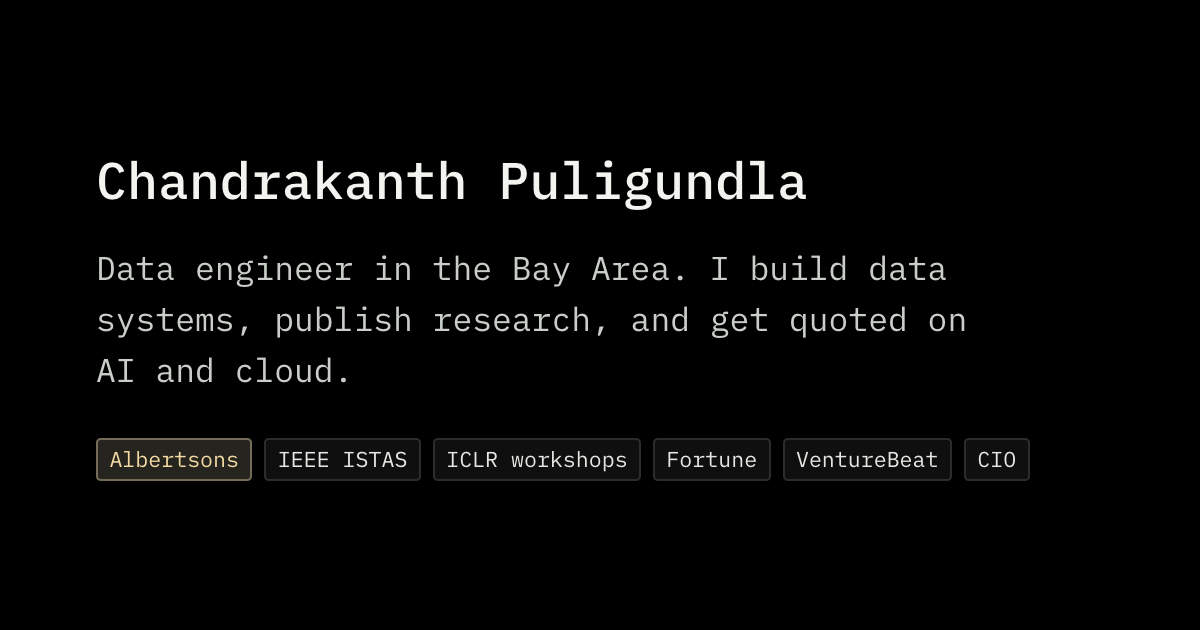
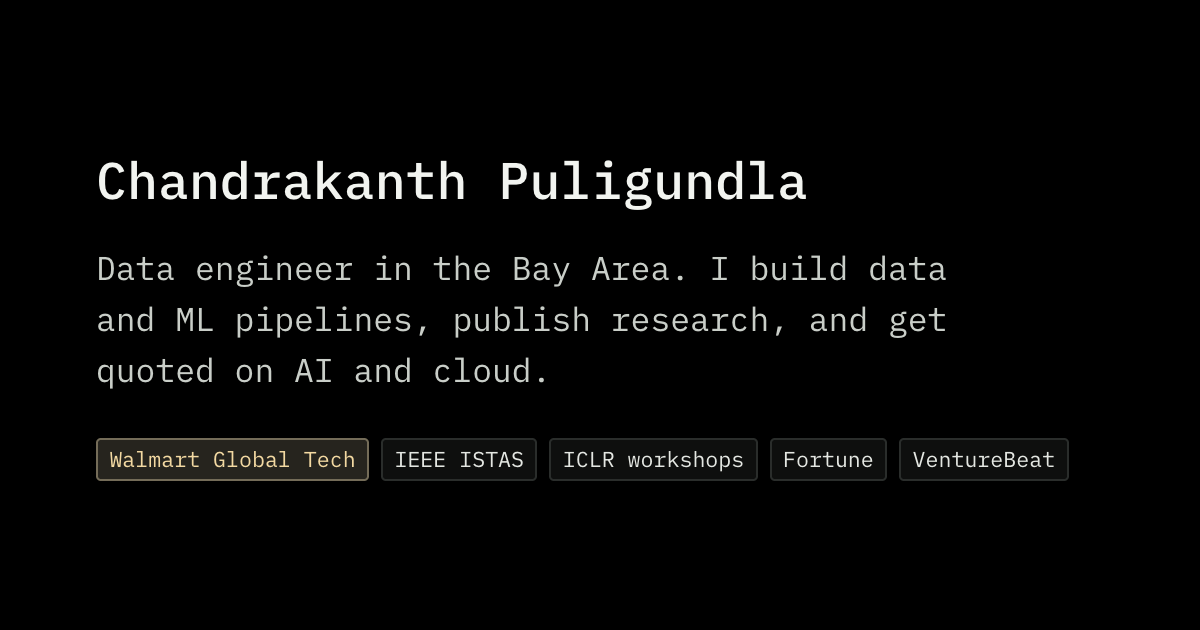
Update the work experience from the FY26 resume
Add Walmart Global Tech as the current role, bring Albertsons, Amazon
and Vodafone in line with the resume, drop LMKInfotech and the Contract
tag, match the resume's skills, and point the home intro, share card
and page descriptions at Walmart Global Tech.

diff --git a/src/content/work.js b/src/content/work.js
@@ -4,31 +4,63 @@ import { logos } from './logos.js';
 // and { name, logo } for a tool with its logo.
 const python = { name: 'Python', logo: logos.python };
 const java = { name: 'Java', logo: logos.java };
+const snowflake = { name: 'Snowflake', logo: logos.snowflake };
+const bigquery = { name: 'BigQuery', logo: logos.bigquery };
+const airflow = { name: 'Apache Airflow', logo: logos.airflow };
 
 export const roles = [
+  {
+    id: 'walmart',
+    chip: 'Walmart Global Tech',
+    logo: logos.walmart,
+    current: true,
+    title: 'Data Engineer – MLOps',
+    date: 'Jul 2026 — Present',
+    company: 'Walmart Global Tech',
+    bullets: [
+      ['Accelerated data processing by orchestrating ', { fig: '5+' }, ' DAGs to use GPUs, cutting compute time by ', { fig: '30%' }, '.'],
+      ['Identified data migration gaps through cross-source analysis of data spanning ', { fig: '85M+' }, ' items.'],
+      ['Partnered with data scientists to deploy and automate pipelines through CI/CD, reducing bottlenecks.']
+    ]
+  },
   {
     id: 'albertsons',
     chip: 'Albertsons',
     logo: logos.albertsons,
-    current: true,
     onHome: true,
     title: 'Data Engineer',
-    date: 'Jan 2024 — Present',
+    date: 'Jan 2024 — Jul 2026',
     company: 'Albertsons',
-    tag: 'Contract',
     bullets: [
-      ['Developed & scaled customer data API, serving ', { fig: '2B' }, ' monthly requests with high availability.'],
-      ['Built ', python, ' data quality tool; catches ', { fig: '86%' }, ' of bugs before business teams, reducing escalations.'],
       [
-        'Launched critical internal migration monitoring tool in ',
+        'Engineered ',
+        { fig: '120+' },
+        ' ETL pipelines on Google Cloud and delivered OKR reports across ',
+        { fig: '12' },
+        ' business divisions, enabling teams to track performance and progress toward business goals.'
+      ],
+      [
+        'Designed an automated data quality framework using SQL validation and ',
+        airflow,
+        ', detecting ',
+        { fig: '86%' },
+        ' of data defects before business-team escalation.'
+      ],
+      [
+        'Engineered and launched a critical internal migration monitoring tool in ',
         python,
         ', supporting ',
         { fig: '100+' },
-        ' engineers during ',
-        { name: 'Snowflake', logo: logos.snowflake },
+        ' engineers during a large-scale data transition from ',
+        snowflake,
         ' to ',
-        { name: 'BigQuery', logo: logos.bigquery },
-        ' transition.'
+        bigquery,
+        '.'
+      ],
+      [
+        'Developed ',
+        { fig: '30+' },
+        ' PySpark data transformation workflows in Databricks, leveraging Spark and distributed processing to support large-volume ETL pipelines, analytics datasets, and reporting needs.'
       ]
     ]
   },
@@ -37,22 +69,15 @@ export const roles = [
     chip: 'Amazon',
     logo: logos.amazon,
     onHome: true,
-    title: 'SDE Intern',
+    title: 'Data Engineer Intern',
     date: 'May 2023 — Aug 2023',
     company: 'Amazon',
     bullets: [
+      ['Collaborated with ', { fig: '4+' }, ' teams to design validation protocols, manage data, and query improvements.'],
+      ['Optimized ', { fig: '10+' }, ' complex SQL queries, reducing average query execution time by ', { fig: '25%' }, '.'],
       [
-        'Designed and implemented scalable APIs using ',
-        java,
-        ', ',
-        { name: 'Spring', logo: logos.spring },
-        ', and Google Guice for ',
-        { fig: '4,000+' },
-        ' datasheets serving millions of requests.'
-      ],
-      ['Optimized API response times by ', { fig: '33%' }, ' through strategic timeout optimization techniques.'],
-      ['Deployed robust timeout feature, reducing unexpected service interruptions by ', { fig: '67%' }, '.'],
-      ['Led legacy system migration, rerouting ', { fig: '8%' }, ' of traffic seamlessly.']
+        'Built and maintained a centralized data dictionary to document table definitions, field-level metadata, business rules, and data ownership, improving data understanding and consistency.'
+      ]
     ]
   },
   {
@@ -60,38 +85,13 @@ export const roles = [
     chip: 'Vodafone',
     logo: logos.vodafone,
     onHome: true,
-    title: 'Software Development Engineer',
-    date: 'Jul 2021 — Nov 2021',
+    title: 'Data Engineer',
+    date: 'Apr 2020 — Dec 2021',
     company: 'Vodafone',
     bullets: [
-      ['Increased user activity by ', { fig: '28%' }, ' through successful overhaul of key patient engagement mechanisms.'],
-      ['Engineered ', { fig: '11' }, ' RESTful APIs, improving UX and reducing redundant requests by ', { fig: '21%' }, '.'],
-      [
-        'Facilitated CI/CD practices with ',
-        { name: 'Git', logo: logos.git },
-        '/Agile, leading to ',
-        { fig: '14%' },
-        ' increase in code delivery speed.'
-      ]
-    ]
-  },
-  {
-    id: 'lmkinfotech',
-    chip: 'LMKInfotech',
-    logo: logos.lmkinfotech,
-    title: 'SDE Intern',
-    date: 'Apr 2020 — Aug 2020',
-    company: 'LMKInfotech',
-    bullets: [
-      [
-        'Crafted scalable RESTful web APIs in ',
-        java,
-        ' and ',
-        { name: 'Spring Boot', logo: logos.spring },
-        ' for financial management tool.'
-      ],
-      ['Achieved ', { fig: '100%' }, ' test and code coverage, validating ', { fig: '150+' }, ' CRUD operations.'],
-      ['Rectified ', { fig: '5' }, ' crucial bugs, guaranteeing a seamless release with ', { fig: '100%' }, ' on-time record.']
+      ['Collaborated with partners to design and implement solutions for data integration and visualization.'],
+      ['Was part of the on call team for handling the incident tickets, timely resolved, and escalated the tickets.'],
+      ['Built ', { fig: '20+' }, ' pipelines, implemented job scheduling, using ', airflow, ', to streamline data processes.']
     ]
   }
 ];
@@ -111,7 +111,11 @@ export const education = [
 ];
 
 export const skills = [
-  { group: 'Languages', items: [python, java, 'SQL'] },
-  { group: 'Data Platforms', items: [{ name: 'Google BigQuery', logo: logos.bigquery }, { name: 'Snowflake', logo: logos.snowflake }] },
-  { group: 'Tools', items: [{ name: 'Git', logo: logos.git }, 'CI/CD'] }
+  { group: 'Languages', items: [java, python, 'SQL', 'Spark', 'PySpark'] },
+  { group: 'Databases', items: ['Oracle DB', 'MySQL', 'PostgreSQL', 'DBMS'] },
+  { group: 'Data Engineering', items: [snowflake, bigquery, 'Google Cloud', 'Databricks'] },
+  { group: 'Scheduling Tools', items: [airflow, 'Google Cloud Composer'] },
+  { group: 'Reporting', items: ['Power BI', 'Looker', 'ThoughtSpot'] },
+  { group: 'Gen AI & ML', items: ['RAG', 'MCP', 'Prompt Engineering', 'Semantic Modeling', 'LookML'] },
+  { group: 'Data Modelling', items: ['Medallion Architecture', 'Star Schema', 'Slowly Changing Dimensions', 'Batch Processing'] }
 ];

diff --git a/index.html b/index.html
@@ -4,26 +4,26 @@
     <meta charset="UTF-8" />
     <meta name="viewport" content="width=device-width, initial-scale=1.0" />
     <title>Chandrakanth Puligundla — Data engineer</title>
-    <meta name="description" content="Data engineer in the Bay Area. I build data systems, publish research, and get quoted on AI and cloud." />
+    <meta name="description" content="Data engineer in the Bay Area. I build data and ML pipelines, publish research, and get quoted on AI and cloud." />
     <meta name="author" content="Chandrakanth Puligundla" />
     <link rel="canonical" href="https://portfolio.chandrakanthpuligundla.workers.dev/" />
 
     <!-- Open Graph -->
     <meta property="og:type" content="website" />
     <meta property="og:title" content="Chandrakanth Puligundla — Data engineer" />
-    <meta property="og:description" content="Data engineer in the Bay Area. I build data systems, publish research, and get quoted on AI and cloud." />
+    <meta property="og:description" content="Data engineer in the Bay Area. I build data and ML pipelines, publish research, and get quoted on AI and cloud." />
     <meta property="og:url" content="https://portfolio.chandrakanthpuligundla.workers.dev/" />
     <meta property="og:image" content="https://portfolio.chandrakanthpuligundla.workers.dev/og.png" />
     <meta property="og:image:width" content="1200" />
     <meta property="og:image:height" content="630" />
-    <meta property="og:image:alt" content="Chandrakanth Puligundla, data engineer in the Bay Area, above six labels: Albertsons, IEEE ISTAS, ICLR workshops, Fortune, VentureBeat and CIO." />
+    <meta property="og:image:alt" content="Chandrakanth Puligundla, data engineer in the Bay Area, above five labels: Walmart Global Tech, IEEE ISTAS, ICLR workshops, Fortune and VentureBeat." />
     <meta property="og:site_name" content="Chandrakanth Puligundla" />
     <meta property="og:locale" content="en_US" />
 
     <!-- Twitter Card -->
     <meta name="twitter:card" content="summary_large_image" />
     <meta name="twitter:title" content="Chandrakanth Puligundla — Data engineer" />
-    <meta name="twitter:description" content="Data engineer in the Bay Area. I build data systems, publish research, and get quoted on AI and cloud." />
+    <meta name="twitter:description" content="Data engineer in the Bay Area. I build data and ML pipelines, publish research, and get quoted on AI and cloud." />
     <meta name="twitter:image" content="https://portfolio.chandrakanthpuligundla.workers.dev/og.png" />
 
     <!-- Favicon -->

diff --git a/src/content/logos.js b/src/content/logos.js
@@ -1,34 +1,32 @@
 import acl from '../assets/logos/acl.svg'
+import airflow from '../assets/logos/airflow.svg'
 import albertsons from '../assets/logos/albertsons.png'
 import amazon from '../assets/logos/amazon.png'
 import asu from '../assets/logos/asu.png'
 import bigquery from '../assets/logos/bigquery.svg'
 import cvf from '../assets/logos/cvf.svg'
-import git from '../assets/logos/git.svg'
 import iclr from '../assets/logos/iclr.svg'
 import ieee from '../assets/logos/ieee.svg'
 import java from '../assets/logos/java.svg'
-import lmkinfotech from '../assets/logos/lmkinfotech.png'
 import plos from '../assets/logos/plos.png'
 import python from '../assets/logos/python.png'
 import snowflake from '../assets/logos/snowflake.png'
 import spelll from '../assets/logos/spelll.png'
-import spring from '../assets/logos/spring.svg'
 import vodafone from '../assets/logos/vodafone.svg'
+import walmart from '../assets/logos/walmart.svg'
 
 // Company and tool logos: each one's tile colour and how much of the tile it fills.
 export const logos = {
+  walmart: { src: walmart, tile: '#0071dc', fit: 0.72 },
   albertsons: { src: albertsons, tile: '#ffffff', fit: 0.82 },
   amazon: { src: amazon, tile: '#ff6200', fit: 1 },
   vodafone: { src: vodafone, tile: '#ffffff', fit: 0.8 },
-  lmkinfotech: { src: lmkinfotech, tile: '#ffffff', fit: 0.94 },
   asu: { src: asu, tile: '#ffffff', fit: 1 },
   python: { src: python, tile: '#ffffff', fit: 0.8 },
   snowflake: { src: snowflake, tile: '#ffffff', fit: 1 },
   bigquery: { src: bigquery, tile: '#ffffff', fit: 0.76 },
   java: { src: java, tile: '#ffffff', fit: 0.82 },
-  spring: { src: spring, tile: '#ffffff', fit: 0.74 },
-  git: { src: git, tile: '#ffffff', fit: 0.74 },
+  airflow: { src: airflow, tile: '#ffffff', fit: 0.8 },
   ieee: { src: ieee, tile: '#00629b', fit: 0.88 },
   iclr: { src: iclr, tile: '#ffffff', fit: 0.88 },
   plos: { src: plos, tile: '#2a2d2b', fit: 0.84 },

diff --git a/src/components/Rich.jsx b/src/components/Rich.jsx
@@ -1,14 +1,15 @@
 import { Tile } from './Chip.jsx'
 
-// A phrase stays on one line while its bullet's text is at least 18 characters wide
-// (the longest phrase); with very large text it wraps instead of overflowing.
+// A phrase stays on one line while its bullet's text is at least 27 characters wide
+// (the longest phrase, "Build data and ML pipelines"); with very large text it wraps
+// instead of overflowing.
 const introUnderline =
-  '@min-[18ch]:whitespace-nowrap underline decoration-1 decoration-[color:color-mix(in_oklab,var(--color-muted)_60%,transparent)] underline-offset-[.28em]'
+  '@min-[27ch]:whitespace-nowrap underline decoration-1 decoration-[color:color-mix(in_oklab,var(--color-muted)_60%,transparent)] underline-offset-[.28em]'
 
 // A name with its logo in a small box. It stays on one line while its bullet's text is
-// at least 15 characters wide (the widest box, Albertsons); below that it may break.
+// at least 24 characters wide (the widest box, Walmart Global Tech); below that it may break.
 const Named = ({ name, logo }) => (
-  <span className="@min-[15ch]:whitespace-nowrap wrap-anywhere rounded-[.1875rem] border border-chip-border bg-chip pt-[.04em] pr-[.45em] pb-[.1em] pl-[.4em] text-fg">
+  <span className="@min-[24ch]:whitespace-nowrap wrap-anywhere rounded-[.1875rem] border border-chip-border bg-chip pt-[.04em] pr-[.45em] pb-[.1em] pl-[.4em] text-fg">
     <Tile
       logo={logo}
       className="mr-[.4em] inline-flex size-[1.05em] items-center justify-center rounded-[.1875rem] align-[-.18em]"

diff --git a/src/content/profile.js b/src/content/profile.js
@@ -10,15 +10,13 @@ export const profile = {
   // The intro as bullets, each in parts (see Rich.jsx): plain text, an underlined phrase, and a name with its logo.
   intro: [
     [
-      { underline: 'Build data systems' },
+      { underline: 'Build data and ML pipelines' },
       ' at ',
-      { name: 'Albertsons', logo: logos.albertsons },
+      { name: 'Walmart Global Tech', logo: logos.walmart },
       ', in ',
       { name: 'Python', logo: logos.python },
       ' on ',
-      { name: 'Snowflake', logo: logos.snowflake },
-      ' and ',
-      { name: 'BigQuery', logo: logos.bigquery },
+      { name: 'Airflow', logo: logos.airflow },
     ],
     [{ underline: 'Publish research' }, ' on LLMs in software engineering'],
     [{ underline: 'Get quoted' }, ' on AI and cloud'],

diff --git a/tools/og-card.html b/tools/og-card.html
@@ -67,14 +67,13 @@
   </head>
   <body>
     <h1>Chandrakanth Puligundla</h1>
-    <p>Data engineer in the Bay Area. I build data systems, publish research, and get quoted on AI and cloud.</p>
+    <p>Data engineer in the Bay Area. I build data and ML pipelines, publish research, and get quoted on AI and cloud.</p>
     <ul>
-      <li>Albertsons</li>
+      <li>Walmart Global Tech</li>
       <li>IEEE ISTAS</li>
       <li>ICLR workshops</li>
       <li>Fortune</li>
       <li>VentureBeat</li>
-      <li>CIO</li>
     </ul>
   </body>
 </html>

diff --git a/src/components/Chip.jsx b/src/components/Chip.jsx
@@ -51,7 +51,7 @@ const look = (current, more) => {
 
 const linkHover = 'transition-colors duration-150 hover:border-accent hover:text-fg'
 
-// A small label beside a name or a date, such as Contract or Now.
+// A small label beside a name or a date, such as Now.
 export function Tag({ accent, children }) {
   return (
     <span
